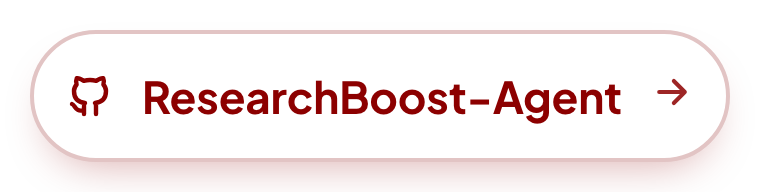
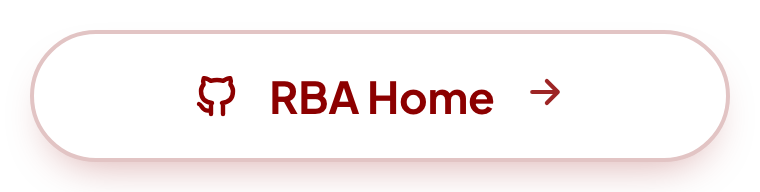
Use the benchmark navigation style for RBA Home

Changed region(s): [[0.1816, 0.375, 0.8171, 0.6562], [0.0908, 0.375, 0.1513, 0.5938], [0.8474, 0.4062, 0.9079, 0.5625]]

diff --git a/docs/assets/readme/render.py b/docs/assets/readme/render.py
@@ -57,7 +57,7 @@ T = {
         "steps": ["Pinned workload", "Agent optimizes", "Frozen judge scores"],
         "buttons": [("leaderboard", "chart", "Leaderboard", "crimson"), ("blog", "book", "Read the blog", "light"),
                     ("run", "rocket", "How to run", "ink"),
-                    ("agent", "github", "ResearchBoost-Agent", "light")],
+                    ("agent", "github", "RBA Home", "light")],
         "cards": [],  # the README has no highlight cards; card() and card_right() stay for reuse
         "domain_note": "workload · task · GPUs",
         "gates": [("0", "Structure", "entry points, data, exact items"), ("1", "Benefit", "clears the speedup bar"),

diff --git a/README.md b/README.md
@@ -8,7 +8,7 @@
 <a href="#leaderboard"><img src="docs/assets/readme/button-leaderboard-en.png" alt="Leaderboard" height="48"></a>
 <a href="https://ai4ai-for-anything.github.io/blog/rsi-infra-bench/"><img src="docs/assets/readme/button-blog-en.png" alt="Blog post" height="48"></a>
 <a href="#how-to-run"><img src="docs/assets/readme/button-run-en.png" alt="How to run" height="48"></a>
-<a href="https://github.com/DAGroup-PKU/ResearchBoost-Agent/tree/main"><img src="https://img.shields.io/badge/Back_to_Main_Repo-241B1C?style=for-the-badge&amp;logo=github&amp;logoColor=white" alt="Back to main repo" height="48"></a>
+<a href="https://github.com/DAGroup-PKU/ResearchBoost-Agent/tree/main"><img src="docs/assets/readme/button-agent-en.png" alt="RBA Home" height="48"></a>
 </p>
 
 <p>
